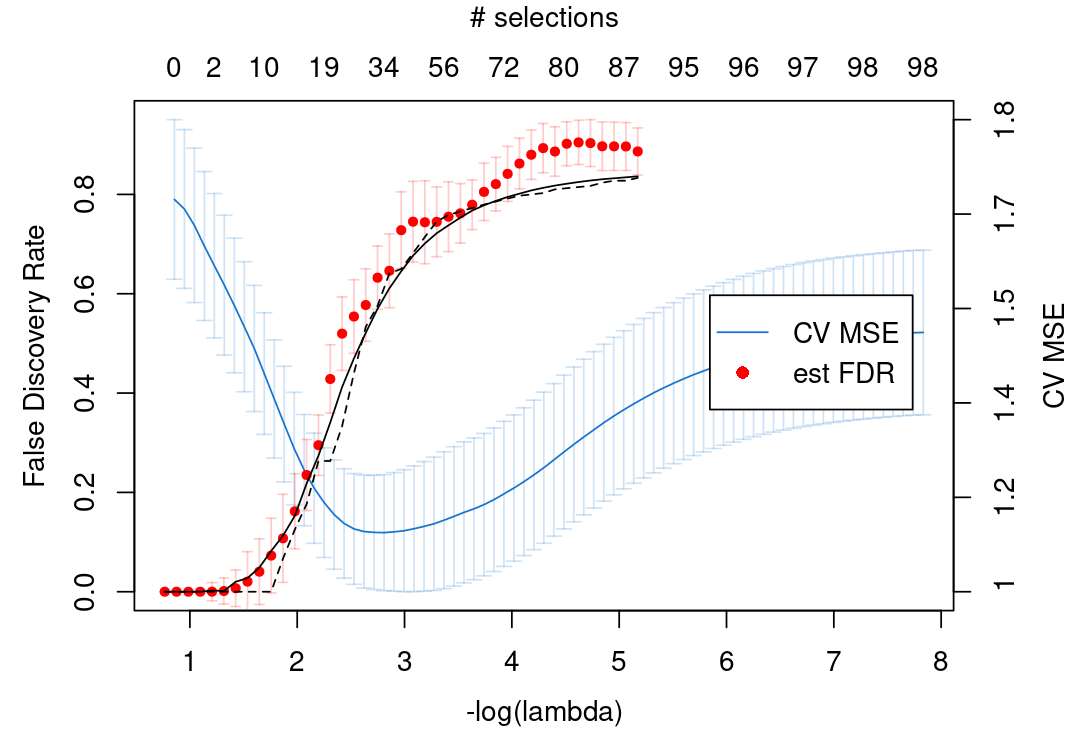
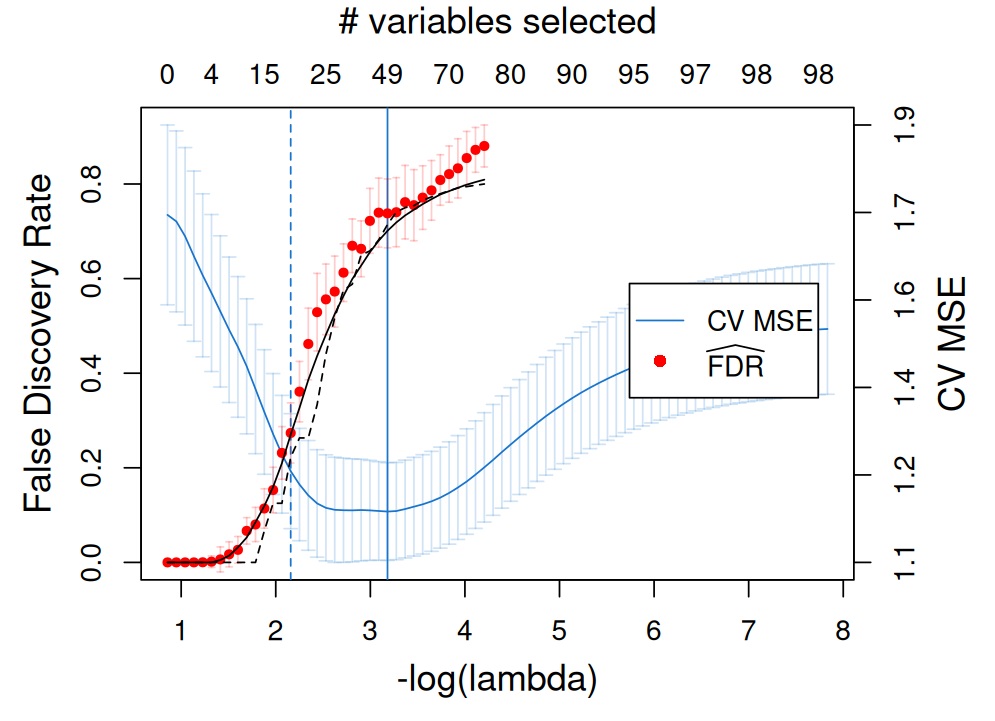
update readme example

diff --git a/README.md b/README.md
@@ -33,13 +33,6 @@ nonzero <- sample(p, k)
 beta <- amplitude * (1:p %in% nonzero) / sqrt(n)
 y.sample <- function() X %*% beta + rnorm(n) + 100
 y <- y.sample()
-
-# generate lambda sequence for lasso
-n_lambda <- 40
-lambda_max <- max(abs(t(scale(X, T, F)) %*% scale(y, T, F))) / n
-sigma <- sqrt(sum(lm(y ~ X)$residuals^2) / (n-p-1))
-lambda_min <- sigma / sqrt(n) / 10
-lambda <- lambda_max * (lambda_min/lambda_max)^((0:n_lambda)/n_lambda)
 ```
 
 ``` r
@@ -47,7 +40,12 @@ library(hFDR)
 library(glmnet)
 glmnet.cv <- glmnet::cv.glmnet(X, y, alpha = 1, nfolds = 10,
                                intercept = T, standardize = T, family = "gaussian")
+                               
+# generate lambda sequence
+lambda.lower <- max(which(glmnet.cv$cvm <= glmnet.cv$cvup[which.min(glmnet.cv$cvm)]))
+lambda <- glmnet.cv$lambda[1:lambda.lower]
 
+# compute FDR estimators with s.e. estimation by Bootstrap (computationally expensive)
 hFDR.res <- hFDR(X, y, model = "gausslinear", select = "lasso", lambda = lambda,
                  psi = "pval", se = T, n_sample.se = 10, n_cores = 2)
 
@@ -71,3 +69,7 @@ lines(x = -log(lambda), y = FDP, col = "black", lty = 2)  # dashed black line fo
 lines(x = -log(lambda), y = FDR, col = "black", lty = 1)  # solid black line for FDR
 ```
 ![hFDR example](readme/hFDR_example.png)
+
+```
+For discussion on the choice of lambda and computational efficiency/scalability, please see vignettes/Introduction_and_Scalability.Rmd
+```
